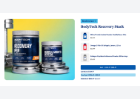
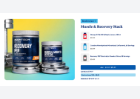
screenshots 2026-08-10T14:54:05.141Z

diff --git a/sticky-nav-bar/index.html b/sticky-nav-bar/index.html
@@ -168,7 +168,8 @@ pre { background: var(--surface); border: 1px solid var(--rule); border-radius: 
 <section id="admin-requirement"><p class="eyebrow">07 — Admin requirement</p><h2>Admin requirement</h2><div class="scroll"><table><thead><tr><th>Content type</th><th>Functional requirement</th><th>Asset / copy requirement</th><th>Responsive &amp; content behavior</th></tr></thead><tbody><tr><td><strong>Anchor Link</strong> (Required, x2-4)</td><td>Admin can add/remove anchor links. Each link includes: Name; Anchor target section (Use the mapping section ID).</td><td></td><td>On narrower breakpoints, when users can't see all links, it scrolls horizontally.</td></tr><tr><td><strong>Active-State Indicator</strong></td><td>Component highlights the anchor link matching the section currently in view.</td><td>–</td><td>–</td></tr><tr><td><strong>Global Sticky Header Override</strong> (Optional)</td><td>Admin can override the global sticky header via a &quot;Disable global sticky header&quot; checkbox setting. When checked, only the Sticky Anchor Navigation becomes sticky on scroll – the global site header does not. When unchecked, the Sticky Anchor Navigation will be attached underneath the global site header.</td><td>–</td><td></td></tr></tbody></table></div></section>
 <section id="other-requirements"><p class="eyebrow">08 — Other requirements</p><h2>Other requirements</h2><ol><li>Follows <a href="https://getplatter.atlassian.net/wiki/spaces/TVS/pages/889683969">FSD: Global SEO Rule</a>.</li><li><strong>Analytics:</strong> component supports automated impression tracking (viewport entry) and click tracking via the standard <code>raiseEvent</code> handler.</li></ol></section>
 <section id="open-comments"><p class="eyebrow">09 — Open comments</p><h2>Open comments</h2><div class="card"><h3 id="felix-tellmann-unanswered-2026-08-06">Felix Tellmann — unanswered 2026-08-06</h3><p><span class="badge open">unanswered 2026-08-06</span></p><blockquote><p>How does a Platter component disable the global sticky header? The header is TVS's own Angular chrome, outside anything we render, and nothing in the TVS-Common surface or the ten downloaded TVS templates exposes a hook for it. The FSD's own Related content links to <em>FSD: Sticky Transparent Header Update</em> (Brittany Showdra), which suggests TVS is changing that header separately — so the hook may be planned rather than existing. We need either the class or attribute to set, or confirmation that a scoped CSS override from inside the landing page is the sanctioned approach.</p></blockquote>
-<p>Partly self-answered on 2026-08-06, but left open because the remaining half is the half only TVS can settle. The element is <code>div.header-root__stack</code> on qa1, pinned by TVS's own scroll handler adding <code>.header-root__stack--pinned</code>. What is still open: whether overriding that from inside the landing page is sanctioned or whether TVS would rather expose a flag we set, and whether the 80px band is the same height on mobile.</p></div></section>
+<p>Partly self-answered on 2026-08-06, but left open because the remaining half is the half only TVS can settle. The element is <code>div.header-root__stack</code> on qa1, pinned by TVS's own scroll handler adding <code>.header-root__stack--pinned</code>. What is still open: whether overriding that from inside the landing page is sanctioned or whether TVS would rather expose a flag we set.</p>
+<p>The band height is no longer part of this question. As of 2026-08-10 the section measures whatever TVS has parked at the top rather than assuming a number, so the mobile height, a promo strip above the header, and a future redesign all resolve themselves — see <em>The parking offset is measured, not assumed</em>. Only the unchecked-to-checked override still needs TVS's word.</p></div></section>
 <section id="deviations"><p class="eyebrow">10 — Deviations</p><h2>Deviations</h2><p>Recorded so the gaps are visible rather than forgotten.</p>
 <div class="card"><h3 id="anchor-target-is-a-link-field-not-a-section-id-picker">Anchor target is a link field, not a section-ID picker</h3><p><span class="badge built">Built</span> <code>ctaLabel</code> + <code>ctaUrl</code> per row</p><p>The spec's second sub-field is &quot;Anchor target section (Use the mapping section ID)&quot;. We ship a general link field instead, so a row is <code>ctaLabel</code> + <code>ctaUrl</code> and an on-page target is written as <code>#&lt;section id&gt;</code>. This is a superset of the spec — every value the spec describes is still expressible — and it buys two things. <strong>The field names match every other CTA in the library</strong>, so a merchandiser filling a nav row is filling the same two boxes they fill in the hero and the expert module rather than learning a third vocabulary. And a nav that needs one off-page destination among its on-page ones does not need a schema change to get it.</p>
 <p>The cost is that a merchandiser can enter a link the active-state indicator cannot track. That is stated in the field's own description: only <code>#</code> links are eligible for the underline, and anything else still navigates but never highlights.</p></div>
@@ -177,13 +178,18 @@ pre { background: var(--surface); border: 1px solid var(--rule); border-radius: 
 <blockquote><p><strong>Status:</strong> Built — best-effort CSS override, unverified on a real landing page  The field exists and carries the spec's wording, and the checked state is implemented as a scoped CSS override targeting TVS's header from inside the landing page. <strong>This has not been verified against a real LP</strong>, because the header is Angular chrome we do not render and no documented hook for it exists — see the Open comment above. If Chirag confirms a different mechanism, the field stays and only its implementation changes; if he confirms there is none, the field ships inert and this status becomes <em>Not built</em>.</p></blockquote>
 <p>That was written off the production <code>www</code> homepage, where nothing on the page computes to <code>position: sticky</code> or <code>fixed</code>. <strong>It was the wrong page.</strong> On <code>qa1.vitaminshoppe.com</code> the redesigned header does pin, and the reason it looked absent is worth recording because it will mislead the next person too: the <code>--pinned</code> modifier is added by TVS's own scroll handler, so a <em>programmatic</em> <code>scrollTo</code> from an automation context moves the page without ever firing their listener, and the header stays static no matter how far you scroll. It only appears under a real wheel gesture.</p>
 <p>Measured on <code>qa1.vitaminshoppe.com/c/vitamins-supplements</code>, the pinned element is <code>div.header-root__stack.header-root__stack--pinned</code>, carrying <code>position: fixed</code>, <code>top: 0</code>, <code>z-index: 1033</code> and <code>height: 80px</code>.</p>
-<p>Three things follow. The offset default is <strong>80px</strong>, not 0. The override targets <code>.header-root__stack</code>, with the older production <code>header.victory-header</code> kept alongside it so the rule survives that rollout in either direction. And the bar's own <code>z-index</code> is <strong>1030</strong> — under their pinned header rather than over it, so if the offset is ever wrong for a breakpoint the bar slides under their header instead of covering it.</p>
+<p>Three things follow. The offset was set to <strong>80px</strong>, not 0 — since superseded by the run-time measurement in <em>The parking offset is measured, not assumed</em> below, where 80px survives only as the pre-Alpine fallback. The override targets <code>.header-root__stack</code>, with the older production <code>header.victory-header</code> kept alongside it so the rule survives that rollout in either direction. And the bar's own <code>z-index</code> is <strong>1030</strong> — under their pinned header rather than over it, so if the offset is ever wrong for a breakpoint the bar slides under their header instead of covering it.</p>
 <p>Verified against a stand-in that behaves like their header: with the toggle off it stays <code>fixed</code>, with it on our rule computes it to <code>static</code>. The stand-in is pinned by an <em>inline</em> style, so that also demonstrates the <code>!important</code> winning the contest it exists for. Both halves of the setting are driven by the single data attribute — the offset drops 80px to 0 and the header unpins together, so they cannot disagree.</p>
-<p>Two things are still open. No QA landing page carries this section yet, so the rule has not been watched unpinning TVS's real header rather than a stand-in. And the mobile height of that header band is unconfirmed — 80px is the desktop measurement, and if mobile differs the token needs a media query rather than a second field.</p>
+<p>One thing is still open: no QA landing page carries this section yet, so the rule has not been watched unpinning TVS's real header rather than a stand-in. The second gap recorded here — that the mobile height of the band was unconfirmed — was closed on 2026-08-10 by measuring the header instead of assuming its height, which needs neither a media query nor a second field.</p>
 <p>The unchecked state needs nothing from TVS and is the one that must be right: our nav sticks below whatever height the global header occupies.</p></div>
 <div class="card"><h3 id="sticky-is-position-fixed-not-position-sticky">Sticky is <code>position: fixed</code>, not <code>position: sticky</code></h3><p><span class="badge built">Built</span> a placeholder holds the vacated height</p><p>A sticky element only sticks within its own containing block, and Amplience wraps every content item in a <code>&lt;tvs-cms-component&gt;</code> whose height is exactly this section's height. <code>position: sticky</code> would therefore unstick on the same frame it started sticking. The bar is switched to <code>position: fixed</code> instead, and an outer element holds its height open so the page below does not jump up by the bar's height at the moment it detaches. Verified in Chrome at 1280×760 and 375×700: the bar detaches at the right scroll position and the content below it does not shift.</p>
-<p>How far below the top of the viewport it parks is one variable, <code>--plx-sticky-nav--offset</code>, read by both the CSS and the scroll maths so they cannot disagree. It defaults to <strong>80px</strong>, the height of the header band TVS pins to the top of the viewport — see <em>Disable global sticky header</em> below for how that was measured.</p></div>
-<div class="card"><h3 id="active-state-uses-two-intersectionobservers-and-a-mutationobserver">Active state uses two IntersectionObservers and a MutationObserver</h3><p><span class="badge built">Built</span> no scroll listener</p><p>The three are <code>watchStick</code>, <code>watchSections</code> and <code>watchIds</code> in the section scope. <code>watchStick</code> asks one question only — has the placeholder top edge passed the parking line — and is what flips <code>stuck</code>; it has nothing to do with the active link. <code>watchSections</code> is the pair of IntersectionObservers described below, and <code>pickActive</code> is the function that answers &quot;which section&quot; from the rectangles. <code>watchIds</code> is the MutationObserver.</p>
+<p>How far below the top of the viewport it parks is one variable, <code>--plx-sticky-nav--offset</code>, read by both the CSS and the scroll maths so they cannot disagree. It is <strong>measured from TVS's header at run time</strong> rather than fixed at a number — see <em>The parking offset is measured, not assumed</em> below. The 80px in the stylesheet is only the fallback for the frames before Alpine runs.</p></div>
+<div class="card"><h3 id="the-parking-offset-is-measured-not-assumed">The parking offset is measured, not assumed</h3><p><span class="badge built">Built</span> replaces the hard-coded 80px, 2026-08-10</p><p>The first implementation hard-coded 80px, measured once on qa1. That is wrong in four ordinary situations, none of which announce themselves: TVS's header does not pin until their own scroll handler fires, so before that there is nothing to clear and the bar hovered 80px below a header that had scrolled away; the mobile band height was never confirmed and is not obliged to match desktop; a promo or alert strip above the header changes the total; and the older production <code>header.victory-header</code> does not pin at all, where the correct offset is 0.</p>
+<p>The section now measures. <code>headerBottom()</code> resolves TVS's header — trying <code>.header-root__stack</code> and <code>header.victory-header</code>, the same two selectors the unpin override targets — and returns its <code>getBoundingClientRect().bottom</code>, but only where the element actually computes to <code>position: fixed</code> or <code>sticky</code>, is parked against the top edge, and is shorter than 40% of the viewport. A static, scrolled-away or full-screen element measures 0, which is the right answer: park at the very top. Where neither selector matches, <code>probeBottom()</code> asks <code>elementsFromPoint</code> what is at the top edge instead and takes the lowest bottom among whatever is pinned there, so a renamed header, or a promo bar that outlives one, still parks the nav correctly instead of silently reverting to a stale constant. Our own bar and its ancestors are excluded from that probe — without that filter a bar parked at 0 would measure itself, push itself down, stop intersecting the probe point and oscillate.</p>
+<p><strong>It is measured on scroll, and it has to be.</strong> This is the section's only scroll listener and the one place its observer-driven design does not reach: TVS pins their header from their own scroll handler, so there is no event of ours and no attribute of theirs we can rely on. The listener is rAF-throttled and gated on the value actually changing, which in practice is twice a page — 0 to 80 when they pin, back when they unpin — so the observer rebuild it triggers is rare rather than per-frame. Reading the live rectangle rather than watching for their <code>--pinned</code> class is deliberate: it works the same whether they pin with a class, an inline style, a transform, or switch to plain <code>position: sticky</code> later.</p>
+<p>Two things switch the measurement off entirely, both by design. A page or <code>#sectionId</code> rule that declares <code>--plx-sticky-nav--offset</code> wins outright — the section checks for a declared value first, which works precisely because the public token is declared nowhere. And the <em>Disable global sticky header</em> checkbox skips it, because the CSS already forces the offset to 0 and unpins their header; a measured inline value would otherwise fight that rule for the top slot.</p>
+<p>Verified in Chrome at 1512 wide against a preview stand-in that pins from a scroll handler under TVS's own class name. With the header pinned the bar's top edge equals the header's bottom edge exactly; unpinned, removed from the DOM entirely, or with the checkbox set, the offset resolves to 0 and the bar parks at the top; with a page rule declaring 140px the section writes nothing and the bar parks at 140.</p></div>
+<div class="card"><h3 id="active-state-uses-two-intersectionobservers-and-a-mutationobserver">Active state uses two IntersectionObservers and a MutationObserver</h3><p><span class="badge built">Built</span> no scroll listener drives the active link</p><p>The three are <code>watchStick</code>, <code>watchSections</code> and <code>watchIds</code> in the section scope. <code>watchStick</code> asks one question only — has the placeholder top edge passed the parking line — and is what flips <code>stuck</code>; it has nothing to do with the active link. <code>watchSections</code> is the pair of IntersectionObservers described below, and <code>pickActive</code> is the function that answers &quot;which section&quot; from the rectangles. <code>watchIds</code> is the MutationObserver.</p>
 <p>The observers are triggers only; which section is current is then computed from the targets' rectangles. Reading the observer entries directly is the obvious implementation and is wrong twice over — a section stops intersecting while it is still the one in view, and in the gap between two modules nothing intersects at all, so the indicator sticks on whichever section left last.</p>
 <p>Two root shapes are needed because each has a blind spot the other covers. A 1px band directly under the bar fires as a section's top crosses the line, which a half-open root misses because the section is still below it. A half-open root fires when a scroll jump lands with nothing in the band at either end, which is every jump straight back to the top of the page.</p>
 <p><strong>The MutationObserver is not defensive.</strong> Every Platter section sets its own id from <code>:id=&quot;$data.sectionId&quot;</code>, so the elements these links point at are still id-less when this section initialises, and an observer built at that moment would observe nothing at all. It watches for ids appearing and disconnects itself once every anchor has resolved.</p></div>

diff --git a/bundle-module/index.html b/bundle-module/index.html
@@ -200,7 +200,7 @@ pre { background: var(--surface); border: 1px solid var(--rule); border-radius: 
 <p>From <code>_content.json</code>. This is what the screenshots above are rendering.</p>
 <pre>{
   &quot;eyebrow&quot;: &quot;Bundle &amp; Save&quot;,
-  &quot;heading&quot;: &quot;BodyTech Recovery Stack&quot;,
+  &quot;heading&quot;: &quot;Muscle &amp; Recovery Stack&quot;,
   &quot;headingLevel&quot;: &quot;h2&quot;,
   &quot;headingSize&quot;: &quot;36px / 24px&quot;,
   &quot;headingFont&quot;: &quot;Fields&quot;,
@@ -208,15 +208,15 @@ pre { background: var(--surface); border: 1px solid var(--rule); border-radius: 
   &quot;imageAlt&quot;: &quot;BodyTech Recovery Pep and Muscle Growth Peptide tubs stacked on gym weights, on a yellow to cyan gradient&quot;,
   &quot;priority&quot;: false,
   &quot;skus&quot;: [
-    &quot;VS-4612&quot;,
     &quot;VS-2255&quot;,
-    &quot;VS-6098&quot;
+    &quot;VS-8531&quot;,
+    &quot;VS-1884&quot;
   ],
   &quot;ctaStyle&quot;: &quot;dark&quot;,
   &quot;showPromotionSummary&quot;: true,
-  &quot;promotionName&quot;: &quot;Buy 2 get 1 50% off&quot;,
-  &quot;discountValue&quot;: 22.5,
-  &quot;discountUnit&quot;: &quot;$ off&quot;,
+  &quot;promotionName&quot;: &quot;Stack and save 10%&quot;,
+  &quot;discountValue&quot;: 10,
+  &quot;discountUnit&quot;: &quot;% off&quot;,
   &quot;sectionId&quot;: &quot;recovery-stack&quot;
 }</pre></section>
 <section id="design-reference"><p class="eyebrow">05 — Design reference</p><h2>Design reference</h2><p>The section frames are <a href="https://www.figma.com/design/t9mARSHD1DlFyxMAxwBBPL/The-Vitamin-Shoppe-External-Consolidated-Feedback?node-id=18228-432837" target="_blank" rel="noopener"><code>18228:432837</code></a> (desktop, 1512) and <a href="https://www.figma.com/design/t9mARSHD1DlFyxMAxwBBPL/The-Vitamin-Shoppe-External-Consolidated-Feedback?node-id=18228-432919" target="_blank" rel="noopener"><code>18228:432919</code></a> (mobile, 375), both inside the Static Bundle section <a href="https://www.figma.com/design/t9mARSHD1DlFyxMAxwBBPL/The-Vitamin-Shoppe-External-Consolidated-Feedback?node-id=18228-433019" target="_blank" rel="noopener"><code>18228:433019</code></a>. No browser-size token is exposed on either frame; the only page-scale token present is Page Width 1860, bound as an inert max-width on the Section Header.</p>
